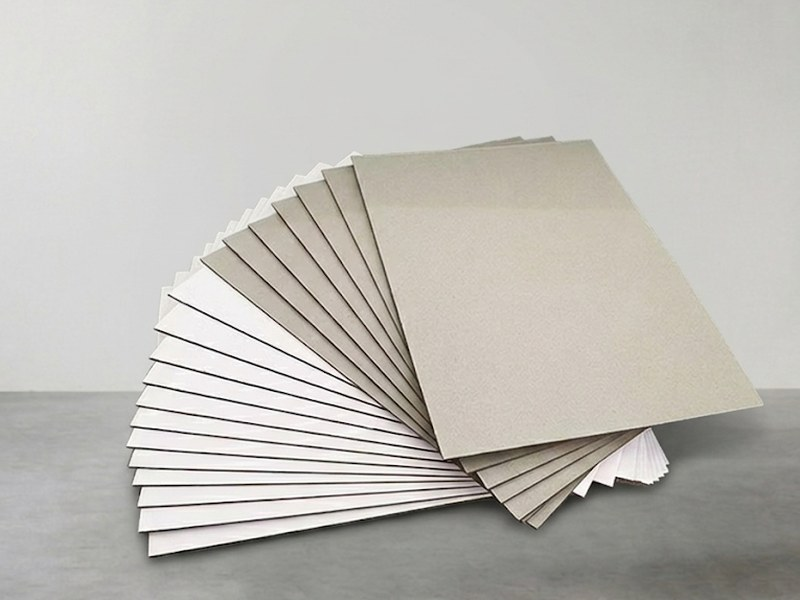
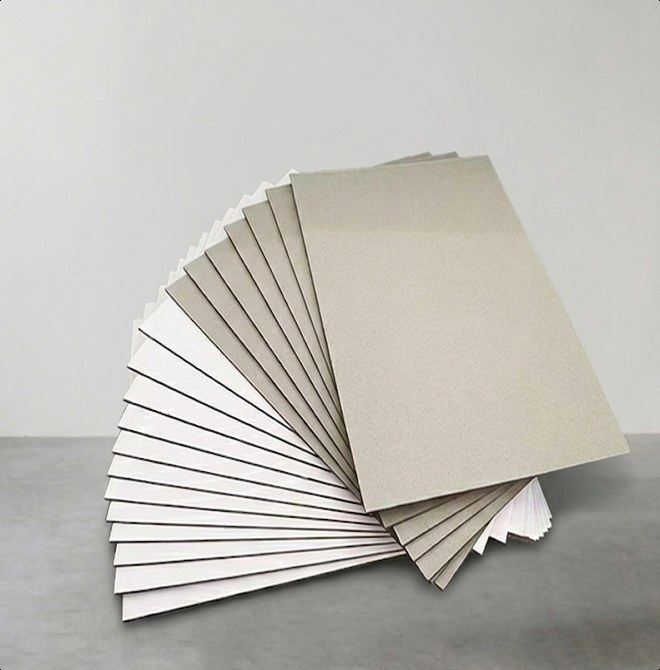
feat(products): add product photos and match per-group column layouts
21 supplied photos mapped to products, sparkle watermark cropped out.
Groups now set their own column count (2 large, 3, or 4). Chemicals and
export heroes use interim photos; soap-noodles.jpg is still missing.

Claude-Session: https://claude.ai/code/session_01MFb2cSYX6YupffMsADUrtT

diff --git a/content/products.ts b/content/products.ts
@@ -6,6 +6,10 @@ export type ProductItem = {
 
 export type ProductGroup = {
   title?: string;
+  /** Cards per row on desktop; 2 renders large cards. */
+  columns: 2 | 3 | 4;
+  /** Draw a divider above this group. */
+  divided?: boolean;
   items: ProductItem[];
 };
 
@@ -24,8 +28,6 @@ export type ProductCategory = {
   /** Image on the homepage card. */
   image: string;
   heroImage: string;
-  /** "three" = 3-column cards; "two" = large 2-column cards. */
-  layout: "three" | "two";
   featured?: ProductItem & { highlights: ProductHighlight[] };
   groups: ProductGroup[];
 };
@@ -33,8 +35,9 @@ export type ProductCategory = {
 const img = (name: string) => `/images/products/${name}.jpg`;
 
 // Order matches the homepage grid. Everything comes from the Figma design.
-// TODO(verify): hero image of Industrial Chemicals and Export Division, and the
-// desktop layout of those two pages (only their mobile frames were readable).
+// TODO(verify): the Industrial Chemicals and Export Division heroes are plain
+// photos, not the cutouts from Figma; soap-noodles.jpg is still missing; and the
+// desktop layout of those two pages was built from their mobile frames.
 export const productCategories: ProductCategory[] = [
   {
     slug: "raw-materials",
@@ -44,7 +47,6 @@ export const productCategories: ProductCategory[] = [
       "Quality packaging foundations from selected raw materials for every industrial need.",
     image: "/images/product-raw-materials.jpg",
     heroImage: img("hero-raw-materials"),
-    layout: "three",
     featured: {
       title: "Sack Kraft Paper (Virgin & Recycled)",
       description:
@@ -73,6 +75,7 @@ export const productCategories: ProductCategory[] = [
     },
     groups: [
       {
+        columns: 3,
         items: [
           {
             title: "Bleached Sack Kraft Paper",
@@ -95,6 +98,7 @@ export const productCategories: ProductCategory[] = [
         ],
       },
       {
+        columns: 3,
         items: [
           {
             title: "Label Stickers",
@@ -126,9 +130,9 @@ export const productCategories: ProductCategory[] = [
       "Precision-engineered chemical solutions powering efficient and high-performance paper production.",
     image: "/images/product-industrial-chemicals.jpg",
     heroImage: img("hero-industrial-chemicals"),
-    layout: "three",
     groups: [
       {
+        columns: 2,
         items: [
           {
             title: "Hotmelt Adhesives",
@@ -142,6 +146,11 @@ export const productCategories: ProductCategory[] = [
               "Non-ionic surfactants derived from natural fatty alcohols, used as wetting agents, emulsifiers, and dispersants in pulp processing and paper coating formulations.",
             image: img("fatty-alcohol-ethoxylates"),
           },
+        ],
+      },
+      {
+        columns: 3,
+        items: [
           {
             title: "Soap Noodles",
             description:
@@ -172,10 +181,10 @@ export const productCategories: ProductCategory[] = [
       "Global-ready industrial and specialty paper solutions built for demanding markets worldwide.",
     image: "/images/product-export-division.jpg",
     heroImage: img("hero-export-division"),
-    layout: "three",
     groups: [
       {
         title: "Industrial Material Group",
+        columns: 2,
         items: [
           {
             title: "White Top Liner Board",
@@ -193,6 +202,8 @@ export const productCategories: ProductCategory[] = [
       },
       {
         title: "Technical & Business Paper Group",
+        columns: 4,
+        divided: true,
         items: [
           {
             title: "Laid Paper",
@@ -229,10 +240,10 @@ export const productCategories: ProductCategory[] = [
     summary:
       "Complete packaging solutions crafted from quality paper for every product and industry.",
     image: "/images/product-finished-packaging.jpg",
-    heroImage: img("hero-finished-paper-packaging"),
-    layout: "two",
+    heroImage: img("hero-raw-materials"),
     groups: [
       {
+        columns: 2,
         items: [
           {
             title: "Shopping Bags",

diff --git a/components/sections/CategoryPage.tsx b/components/sections/CategoryPage.tsx
@@ -13,7 +13,6 @@ type CategoryPageProps = {
 
 export function CategoryPage({ slug }: CategoryPageProps) {
   const category = getCategory(slug);
-  const large = category.layout === "two";
 
   return (
     <>
@@ -40,7 +39,7 @@ export function CategoryPage({ slug }: CategoryPageProps) {
                 key={group.title ?? index}
                 className={cn(
                   "flex flex-col gap-8",
-                  index > 0 && "border-t border-line pt-8",
+                  group.divided && "border-t border-line pt-8",
                 )}
               >
                 {group.title && (
@@ -51,14 +50,15 @@ export function CategoryPage({ slug }: CategoryPageProps) {
                 <div
                   className={cn(
                     "grid gap-6 md:grid-cols-2",
-                    !large && "lg:grid-cols-3",
+                    group.columns === 3 && "lg:grid-cols-3",
+                    group.columns === 4 && "lg:grid-cols-4",
                   )}
                 >
                   {group.items.map((item) => (
                     <ProductItemCard
                       key={item.title}
                       item={item}
-                      large={large}
+                      large={group.columns === 2}
                     />
                   ))}
                 </div>

diff --git a/components/sections/ProductItemCard.tsx b/components/sections/ProductItemCard.tsx
@@ -12,7 +12,7 @@ export function ProductItemCard({ item, large }: ProductItemCardProps) {
     <article className="flex flex-col gap-4">
       <div
         className={cn(
-          "relative overflow-hidden rounded-card bg-ink",
+          "relative overflow-hidden rounded-card bg-brand-100",
           large ? "aspect-[660/586]" : "aspect-[400/300]",
         )}
       >

diff --git a/docs/ASSETS.md b/docs/ASSETS.md
@@ -45,14 +45,11 @@ Ekspor gambar kartu (frame bernama `Frame 21` / `Frame 17` di setiap item) sebag
 
 Sudah ada di `public/images`: aset homepage, logo, semua ikon, halaman About, Contact Us, dan seluruh gambar Raw Materials (hero dan 7 foto).
 
-**Masih kurang** (perlu ekspor dari Figma, kuota Figma MCP sedang habis):
+**Masih kurang:**
 
-- `mission-trust.jpg` dan `mission-flexibility.jpg` sementara dipotong dari screenshot desain (871 px lebar, agak buram di layar retina). Ganti dengan ekspor Figma dari frame `LISTING` `225:571` dan `225:599` kalau kuota sudah reset.
-- `products/hero-industrial-chemicals.jpg`, `hero-export-division.jpg`, `hero-finished-paper-packaging.jpg`
-- Industrial Chemicals: `hotmelt-adhesives`, `fatty-alcohol-ethoxylates`, `soap-noodles`, `alkyl-ketene-dimer`, `surfactants`
-- Export Division: `white-top-liner-board`, `saturating-kraft-paper`, `laid-paper`, `carbonless-paper`, `sublimation-paper`, `greaseproof-paper`
-- Finished Paper Packaging: `shopping-bags`, `food-bags`, `corrugated-bags-boxes`, `cement-bags`
-
-Semua berekstensi `.jpg` dan berada di `public/images/products/`.
+- `products/soap-noodles.jpg` (Industrial Chemicals, Soap Noodles): belum ada fotonya.
+- `mission-trust.jpg` dan `mission-flexibility.jpg` sementara dipotong dari screenshot desain (871 px lebar, agak buram di layar retina). Ganti dengan ekspor Figma dari frame `LISTING` `225:571` dan `225:599`.
+- Hero Industrial Chemicals dan Export Division sementara memakai foto biasa (`hero-industrial-chemicals.jpg`, `hero-export-division.jpg`), bukan cutout transparan seperti di Figma. Hero Finished Paper Packaging memakai `hero-raw-materials.jpg` (kotak kardus yang sama dengan di desain).
+- Foto produk lain berasal dari 21 foto yang Anda kirim (660 px lebar), jadi bisa terlihat kurang tajam di layar retina. Ganti dengan ekspor 2x dari Figma kalau tersedia.
 
 Cara ekspor manual di Figma: pilih layer, panel Export di kanan, pilih format (SVG untuk ikon dan logo, JPG untuk foto, PNG untuk hero), lalu Export.
